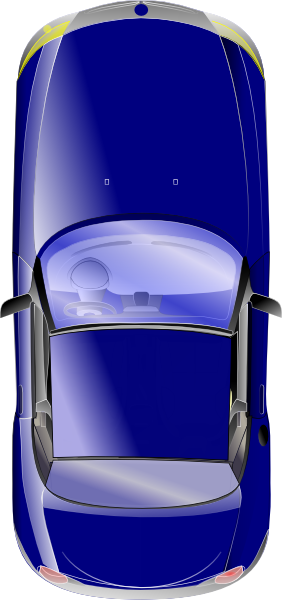
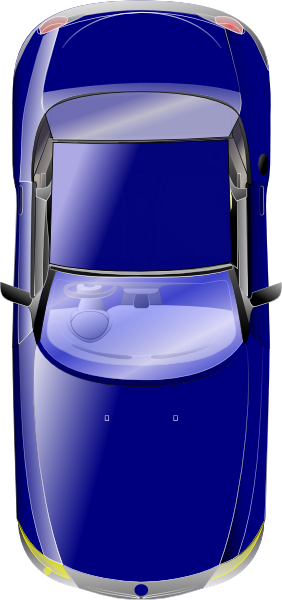
correct car direction

diff --git a/data_visul_page (copy)/js/ring.js b/data_visul_page (copy)/js/ring.js
@@ -94,24 +94,14 @@ function carCircle() {
             clearInterval(id);
         } else {
             for (i = 0; i < namesofreg.length; i++) {
-                eval(namesofreg[i]).style.marginLeft = arrayx[posofreg[i]][pos] * 5 + 100 + 'px';
-                eval(namesofreg[i]).style.marginTop = arrayy[posofreg[i]][pos] * 5 + 100 + 'px';
-                var angleDiff = anglearray[posofreg[i]][pos+1] - anglearray[posofreg[i]][pos]
-                if (angleDiff > 180) {
-                    eval(namesofreg[i]).style.transform = 'rotate('+ (-angleDiff + 360) +'deg)';
-                } else {
-                    eval(namesofreg[i]).style.transform = 'rotate('+ (-angleDiff) +'deg)';
-                }
+                eval(namesofreg[i]).style.marginLeft = arrayx[posofreg[i]][pos] * 5 + 102 + 'px';
+                eval(namesofreg[i]).style.marginTop = arrayy[posofreg[i]][pos] * 5 + 92 + 'px';
+                eval(namesofreg[i]).style.transform = 'rotate('+ (-anglearray[posofreg[i]][pos] + 180) +'deg)';
             }
             for (i = 0; i < namesofauto.length; i++) {
-                eval(namesofauto[i]).style.marginLeft = arrayx[posofauto[i]][pos] * 5 + 100 + 'px';
-                eval(namesofauto[i]).style.marginTop = arrayy[posofauto[i]][pos] * 5 + 100 + 'px';
-                var angleDiff = anglearray[posofauto[i]][pos+1] - anglearray[posofauto[i]][pos]
-                if (angleDiff > 180) {
-                    eval(namesofauto[i]).style.transform = 'rotate('+ (-angleDiff + 360) +'deg)';
-                } else {
-                    eval(namesofauto[i]).style.transform = 'rotate('+ (-angleDiff) +'deg)';
-                }
+                eval(namesofauto[i]).style.marginLeft = arrayx[posofauto[i]][pos] * 5 + 102 + 'px';
+                eval(namesofauto[i]).style.marginTop = arrayy[posofauto[i]][pos] * 5 + 92 + 'px';
+                eval(namesofauto[i]).style.transform = 'rotate('+ (-anglearray[posofauto[i]][pos] + 180) +'deg)';
             }
             pos++;
         }
